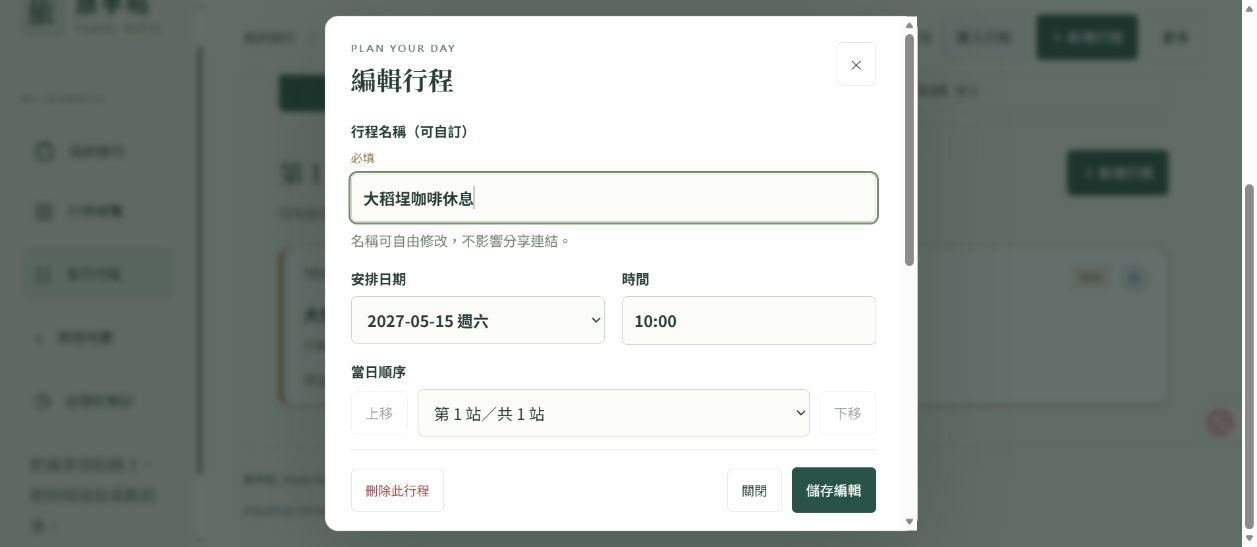
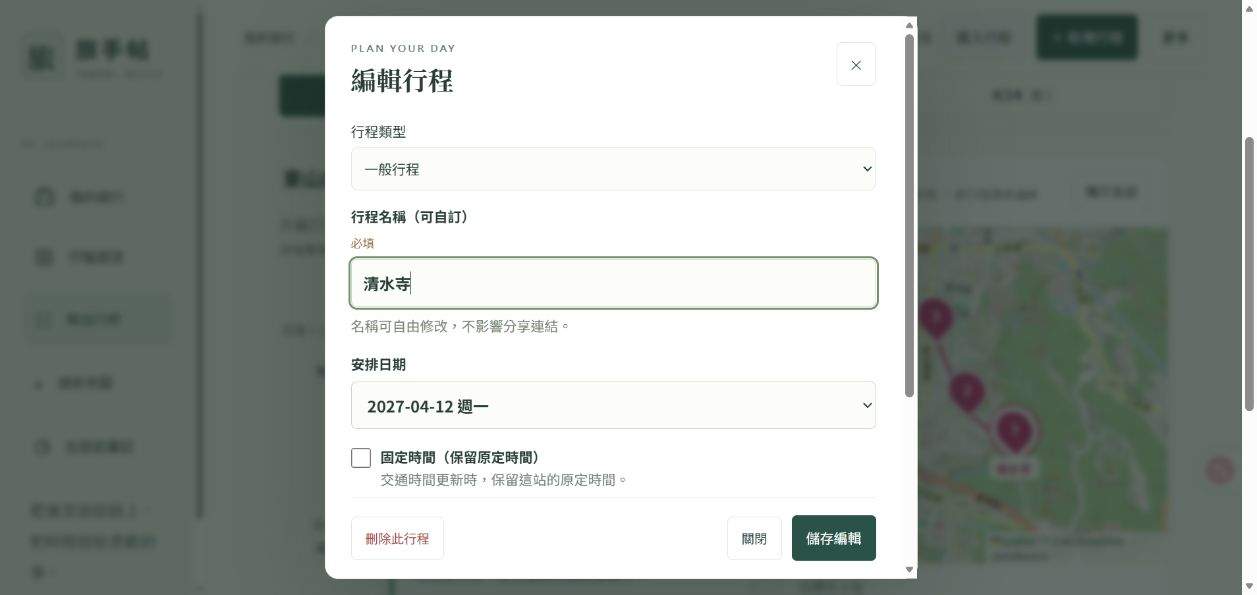
Simplify stop editor and allow moving itinerary cards between dates

diff --git a/public/reorder.js b/public/reorder.js
@@ -1,8 +1,40 @@
+import {clearStaleTravel,pushSchedule} from './transport.js';
+
 // Reorder by stable identity; titles and remote renames never determine identity.
 export function moveStop(stops,id,to){
  const from=stops.findIndex(s=>s.id===id);
  if(from<0||!Number.isInteger(to)||to<0||to>=stops.length)throw Error('找不到要移動的行程。');
  const result=stops.slice();result.splice(to,0,result.splice(from,1)[0]);return result;
+}
+
+// A date move is one immutable edit, so a concurrent rename keeps the same identity.
+export function moveStopBetweenDays(days,id,toDay,to){
+ const fromDay=days.findIndex(day=>day.stops.some(stop=>stop.id===id));
+ if(fromDay<0||!Number.isInteger(toDay)||toDay<0||toDay>=days.length)throw Error('找不到要移動的行程或日期。');
+ const from=days[fromDay].stops.findIndex(stop=>stop.id===id),stop=days[fromDay].stops[from];
+ const max=days[toDay].stops.length-(fromDay===toDay?1:0);
+ if(!Number.isInteger(to)||to<0||to>max)throw Error('請選擇有效的當日位置。');
+ if(fromDay!==toDay&&stop.kind==='flight')throw Error('機票日期由實際出發時間決定，請在機票內容修改出發日期。');
+ if(fromDay!==toDay&&days[toDay].stops.length>=100)throw Error('每天最多可安排 100 個項目。');
+ if(fromDay===toDay&&from===to)return {days:structuredClone(days),fromDay,from,day:toDay,index:to,changed:0,reason:'',cleared:0};
+ const next=structuredClone(days),before=next.flatMap(day=>day.stops).filter(item=>item.travelMinutes!==undefined).length;
+ const moved=next[fromDay].stops.splice(from,1)[0];next[toDay].stops.splice(to,0,moved);
+ if(fromDay!==toDay){delete moved.travelMinutes;delete moved.travelSignature;}
+ clearStaleTravel(next);
+ const positions=fromDay===toDay?[[toDay,Math.max(1,Math.min(from,to))]]:[[fromDay,Math.max(1,from)],[toDay,Math.max(1,to)]];
+ const notes=new Set();let changed=0;
+ for(const [day,start] of positions){if(start>=next[day].stops.length)continue;const result=pushSchedule(next[day].stops,start,{exact:true});changed+=result.changed;if(result.reason)notes.add(result.reason);}
+ return {days:next,fromDay,from,day:toDay,index:to,changed,reason:[...notes].join(' '),cleared:before-next.flatMap(day=>day.stops).filter(item=>item.travelMinutes!==undefined).length};
+}
+
+// Hit only the date column under the pointer; dropping in a gap cancels the edit.
+export function overviewDropTarget(columns,point,id){
+ const column=columns.find(box=>point.x>=box.left&&point.x<=box.left+box.width&&point.y>=box.top&&point.y<=box.top+box.height);
+ if(!column)return null;
+ const items=column.items.filter(item=>item.id!==id);
+ const index=items.filter(item=>point.y>item.top+item.height/2).length;
+ const top=items.length?(index===items.length?items.at(-1).top+items.at(-1).height+4:items[index].top-4):column.emptyTop;
+ return {day:column.day,index,left:column.left+8,width:Math.max(0,column.width-16),top};
 }
 
 // Touch scrolling wins until a stationary long press; mouse/pen use a movement threshold.
@@ -151,6 +183,85 @@ export function initReorder(container,{canStart,onStart,onFinish,onMove}){
   const to=event.key==='Home'?0:event.key==='End'?items.length-1:from+(event.key==='ArrowUp'?-1:1);
   if(to<0||to>=items.length||to===from)return;settling=true;const scope=onStart();
   try{await onMove(card.dataset.stopId,to,scope);}finally{settling=false;onFinish();}
+ });
+ return {cancel:gesture.cancel};
+}
+
+// Overview date columns share the same touch intent and floating-card feedback.
+export function initOverviewReorder(container,{canStart,onStart,onFinish,onMove}){
+ let drag=null,frame=0,settling=false,suppressClickUntil=0;
+ const reduced=()=>window.matchMedia('(prefers-reduced-motion: reduce)').matches;
+ const cards=()=>[...container.querySelectorAll('[data-overview-stop-id]')];
+ const columns=()=>[...container.querySelectorAll('[data-overview-day]')];
+ const eligible=target=>{
+  if(settling||!canStart()||!(target instanceof Element)||target.closest('input,select,textarea,a,form,[contenteditable="true"]'))return null;
+  const card=target.closest('[data-overview-stop-id]');return card&&container.contains(card)&&!card.disabled?card:null;
+ };
+ function updateTarget(){
+  if(!drag)return;
+  const boxes=columns().map(column=>{const box=column.getBoundingClientRect();return {day:Number(column.dataset.overviewDay),...{left:box.left,top:box.top,width:box.width,height:box.height},emptyTop:column.querySelector('.card-stops').getBoundingClientRect().top+8,
+   items:[...column.querySelectorAll('[data-overview-stop-id]')].map(card=>{const rect=card.getBoundingClientRect();return {id:card.dataset.overviewStopId,top:rect.top,height:rect.height};})};});
+  const surface=container.getBoundingClientRect(),point=drag.point;
+  drag.target=point.x>=Math.max(0,surface.left)&&point.x<=Math.min(window.innerWidth,surface.right)&&point.y>=surface.top&&point.y<=surface.bottom?overviewDropTarget(boxes,point,drag.id):null;
+  columns().forEach(column=>column.classList.toggle('overview-drop-target',!!drag.target&&Number(column.dataset.overviewDay)===drag.target.day));
+  drag.marker.hidden=!drag.target;
+  if(drag.target){const left=Math.max(drag.target.left,surface.left,0),right=Math.min(drag.target.left+drag.target.width,surface.right,window.innerWidth);Object.assign(drag.marker.style,{left:`${left}px`,top:`${drag.target.top}px`,width:`${Math.max(0,right-left)}px`});}
+ }
+ function renderFrame(){
+  if(!drag||settling)return;const d=drag;
+  if(d.moved){
+   const box=container.getBoundingClientRect(),edge=48;
+   if(d.point.y>=box.top&&d.point.y<=box.bottom){const x=d.point.x<box.left+edge?-Math.min(14,(box.left+edge-d.point.x)/4):d.point.x>Math.min(box.right,window.innerWidth)-edge?Math.min(14,(d.point.x-Math.min(box.right,window.innerWidth)+edge)/4):0;if(x)container.scrollLeft+=x;}
+   const y=d.point.y<100?-Math.min(16,(100-d.point.y)/5):d.point.y>window.innerHeight-70?Math.min(16,(d.point.y-window.innerHeight+70)/5):0;if(y)window.scrollBy(0,y);
+  }
+  const x=d.point.x-d.start.x,y=d.point.y-d.start.y;
+  d.visualX+=(x-d.visualX)*(reduced()?1:.45);d.visualY+=(y-d.visualY)*(reduced()?1:.45);
+  d.ghost.style.transform=`translate3d(${d.visualX}px,${d.visualY}px,0) scale(${reduced()?1:1.025})`;
+  updateTarget();frame=requestAnimationFrame(renderFrame);
+ }
+ function activate(point,card){
+  if(!card.isConnected||settling||!canStart())return false;
+  const rect=card.getBoundingClientRect(),ghost=card.cloneNode(true),marker=document.createElement('div');
+  for(const attr of ['id','data-overview-stop-id','data-details','data-owner','data-day','data-stop'])ghost.removeAttribute(attr);
+  ghost.querySelectorAll('[id]').forEach(el=>el.removeAttribute('id'));ghost.classList.add('reorder-ghost');ghost.setAttribute('aria-hidden','true');ghost.inert=true;
+  Object.assign(ghost.style,{left:`${rect.left}px`,top:`${rect.top}px`,width:`${rect.width}px`,height:`${rect.height}px`});
+  marker.className='overview-drop-marker';marker.setAttribute('aria-hidden','true');
+  drag={id:card.dataset.overviewStopId,card,rect,ghost,marker,start:{...point},point:{...point},visualX:0,visualY:0,moved:false,target:null,fromDay:Number(card.dataset.owner),from:Number(card.dataset.stop),scope:onStart()};
+  card.classList.add('reorder-source');container.classList.add('is-overview-reordering');document.body.classList.add('reorder-active');document.body.append(ghost,marker);
+  if(point.type!=='touch')card.setPointerCapture(point.id);updateTarget();frame=requestAnimationFrame(renderFrame);return true;
+ }
+ async function finish(save){
+  if(!drag||settling)return;settling=true;cancelAnimationFrame(frame);const d=drag;suppressClickUntil=performance.now()+400;
+  if(d.point.type!=='touch'&&d.card.hasPointerCapture(d.point.id))d.card.releasePointerCapture(d.point.id);
+  try{
+   if(save&&d.target&&(d.target.day!==d.fromDay||d.target.index!==d.from))await onMove(d.id,d.target.day,d.target.index,d.scope);
+   d.marker.remove();columns().forEach(column=>column.classList.remove('overview-drop-target'));
+   const target=cards().find(card=>card.dataset.overviewStopId===d.id);
+   if(target){target.classList.add('reorder-source');const box=target.getBoundingClientRect();const animation=d.ghost.animate([{transform:d.ghost.style.transform},{transform:`translate3d(${box.left-d.rect.left}px,${box.top-d.rect.top}px,0) scale(1)`}],{duration:reduced()?0:200,easing:'cubic-bezier(.2,0,0,1)',fill:'forwards'});await animation.finished.catch(()=>{});target.classList.remove('reorder-source');}
+  }finally{d.ghost.remove();d.marker.remove();d.card.classList.remove('reorder-source');columns().forEach(column=>column.classList.remove('overview-drop-target'));container.classList.remove('is-overview-reordering');document.body.classList.remove('reorder-active');drag=null;settling=false;onFinish();}
+ }
+ const gesture=createReorderGesture({onActivate:activate,onDrag:point=>{drag.point={...point};drag.moved=true;updateTarget();},onDrop:point=>{drag.point={...point};updateTarget();void finish(true);},onCancel:()=>void finish(false)});
+ const pointer=event=>({id:event.pointerId,type:event.pointerType,x:event.clientX,y:event.clientY});
+ const touch=item=>({id:item.identifier,type:'touch',x:item.clientX,y:item.clientY});
+ container.addEventListener('pointerdown',event=>{if(event.pointerType==='touch'||event.button!==0||!event.isPrimary)return;const card=eligible(event.target);if(card)gesture.begin(pointer(event),card);});
+ window.addEventListener('pointermove',event=>{if(event.pointerType!=='touch'&&gesture.move(pointer(event)))event.preventDefault();});
+ window.addEventListener('pointerup',event=>{if(event.pointerType!=='touch')gesture.end(pointer(event));});
+ window.addEventListener('pointercancel',event=>{if(event.pointerType!=='touch')gesture.cancel(pointer(event));});
+ container.addEventListener('lostpointercapture',event=>{if(!settling&&event.pointerType!=='touch')gesture.cancel(pointer(event));});
+ container.addEventListener('touchstart',event=>{if(event.touches.length!==1){gesture.cancel();return;}const card=eligible(event.target);if(card)gesture.begin(touch(event.touches[0]),card);},{passive:true});
+ window.addEventListener('touchmove',event=>{if(event.touches.length!==1){gesture.cancel();return;}if(gesture.move(touch(event.touches[0]))&&event.cancelable)event.preventDefault();},{passive:false});
+ window.addEventListener('touchend',event=>{for(const item of event.changedTouches)if(gesture.end(touch(item))&&event.cancelable)event.preventDefault();},{passive:false});
+ window.addEventListener('touchcancel',()=>gesture.cancel());
+ container.addEventListener('contextmenu',event=>{if(gesture.pending)event.preventDefault();});
+ container.addEventListener('click',event=>{if(performance.now()<suppressClickUntil){event.preventDefault();event.stopImmediatePropagation();suppressClickUntil=0;}},true);
+ window.addEventListener('blur',()=>gesture.cancel());window.addEventListener('resize',()=>gesture.cancel());document.addEventListener('visibilitychange',()=>{if(document.hidden)gesture.cancel();});
+ window.addEventListener('keydown',event=>{if(event.key==='Escape'&&gesture.pending){event.preventDefault();gesture.cancel();}});
+ container.addEventListener('keydown',async event=>{
+  const card=event.target.closest('[data-overview-stop-id]');if(!card||card!==event.target||!event.altKey||!['ArrowLeft','ArrowRight','ArrowUp','ArrowDown'].includes(event.key)||settling||gesture.pending||!canStart())return;
+  event.preventDefault();const day=Number(card.dataset.owner),index=Number(card.dataset.stop),horizontal=['ArrowLeft','ArrowRight'].includes(event.key),toDay=day+(horizontal?(event.key==='ArrowLeft'?-1:1):0);
+  const column=columns().find(item=>Number(item.dataset.overviewDay)===toDay);if(!column)return;
+  const count=column.querySelectorAll('[data-overview-stop-id]').length,to=horizontal?Math.min(index,count):index+(event.key==='ArrowUp'?-1:1);if(to<0||(!horizontal&&to>=count))return;
+  settling=true;const scope=onStart();try{await onMove(card.dataset.overviewStopId,toDay,to,scope);}finally{settling=false;onFinish();}
  });
  return {cancel:gesture.cancel};
 }

diff --git a/public/index.html b/public/index.html
@@ -15,10 +15,10 @@
 
 <dialog id="editor" aria-labelledby="editor-title"><form id="editor-form"><div class="dialog-heading"><div><span class="eyebrow">PLAN YOUR DAY</span><h2 id="editor-title">新增行程</h2></div><div class="editor-actions"><button type="button" id="editor-start-edit" class="primary" hidden>編輯</button><button type="button" id="editor-close" class="plain" data-close aria-label="關閉編輯視窗">✕</button></div></div>
 <label class="editor-kind-label" for="field-kind">行程類型<select id="field-kind" name="kind"><option value="place">一般行程</option><option value="flight">✈ 機票／航班</option></select></label><section id="editor-summary" class="editor-summary"></section><div class="editor-links"><button type="button" id="editor-map" class="secondary" data-view-map>查看地圖</button><button type="button" id="editor-transport" class="secondary" data-transport>查看交通時間</button></div><div class="form-grid"><div id="editor-flight-fields" class="wide" hidden></div><label class="wide">行程名稱（可自訂） <span class="required">必填</span><input id="field-name" name="name" required maxlength="120" placeholder="例如：午餐、下午咖啡、飯店 Check-in"><small>名稱可自由修改，不影響分享連結。</small></label>
-<label>安排日期<select id="field-day" name="day"></select></label><label>時間<input id="field-time" name="time" maxlength="40" placeholder="例如 14:30 或下午"></label>
-<div class="wide editor-order"><label for="field-order">當日順序</label><div class="editor-order-controls"><button type="button" id="editor-up" class="plain" data-write>上移</button><select id="field-order" name="order" aria-label="當日順序"></select><button type="button" id="editor-down" class="plain" data-write>下移</button></div></div><div class="duration-field"><span>停留時間</span><div id="field-duration"></div></div><div class="tag-field"><label for="field-tag">行程標籤</label><select id="field-tag" name="tag"></select><div id="tag-preview" class="tag-preview category-other"><span class="tag">其他</span><small>外框顏色預覽</small></div></div>
+<label class="wide editor-day-field">安排日期<select id="field-day" name="day"></select></label><div class="wide editor-retained-fields" hidden aria-hidden="true"><label>時間<input id="field-time" name="time" maxlength="40" placeholder="例如 14:30 或下午"></label>
+<div class="wide editor-order"><label for="field-order">當日順序</label><div class="editor-order-controls"><button type="button" id="editor-up" class="plain" data-write>上移</button><select id="field-order" name="order" aria-label="當日順序"></select><button type="button" id="editor-down" class="plain" data-write>下移</button></div></div><div class="duration-field"><span>停留時間</span><div id="field-duration"></div></div><div class="tag-field"><label for="field-tag">行程標籤</label><select id="field-tag" name="tag"></select><div id="tag-preview" class="tag-preview category-other"><span class="tag">其他</span><small>外框顏色預覽</small></div></div></div>
 
-<label class="fixed-time-field"><input id="field-fixed" name="fixed" type="checkbox"><span>固定時間（保留原定時間）<small>交通時間更新時，保留這站的原定時間。</small></span></label><label>前往此站的交通方式<select id="field-mode" name="mode"><option value="walking">步行</option><option value="transit">大眾運輸</option><option value="driving">開車／計程車</option><option value="bicycling">自行車</option></select></label>
+<label class="wide fixed-time-field"><input id="field-fixed" name="fixed" type="checkbox"><span>固定時間（保留原定時間）<small>交通時間更新時，保留這站的原定時間。</small></span></label><label class="editor-retained-fields" hidden aria-hidden="true">前往此站的交通方式<select id="field-mode" name="mode"><option value="walking">步行</option><option value="transit">大眾運輸</option><option value="driving">開車／計程車</option><option value="bicycling">自行車</option></select></label>
 <details id="editor-location" class="wide editor-location"><summary>地點與 Google Maps 分享連結</summary><section class="wide maps-import" aria-label="從 Google Maps 加入地點"><label for="field-q">要去的地點／地址</label><div class="maps-search-row"><input id="field-q" name="q" maxlength="300" placeholder="例如：店名、城市，或完整地址" aria-describedby="destination-help"><button type="button" class="secondary" id="search-maps">到 Google Maps 查詢 ↗</button></div><p id="destination-help">填寫實際要去的地點；地圖與交通路線都使用這裡的店名或地址。</p><label class="map-coordinate-field" for="field-coordinates">地圖定位（緯度, 經度）<input id="field-coordinates" name="coordinates" maxlength="70" inputmode="text" placeholder="例如 35.0030, 135.7781"><small>可貼上 Google Maps 完整地點網址帶入座標，或在 Google Maps 長按地點複製座標。只填店名或短連結時不會猜測位置。</small></label><label for="field-mapUrl">貼上 Google Maps 分享連結</label><textarea id="field-mapUrl" name="mapUrl" rows="2" maxlength="5000" placeholder="https://maps.app.goo.gl/…" aria-describedby="share-help maps-share-status"></textarea><p id="share-help">在 Google Maps 確認地點後，按「分享 → 複製連結」，再回到這裡貼上。</p><p id="maps-share-status" role="status"></p><a id="share-preview" class="stop-link" target="_blank" rel="noopener noreferrer" hidden>開啟分享地點確認 ↗</a></section></details><label class="wide">備註<textarea id="field-desc" name="desc" rows="3" maxlength="2000" placeholder="餐廳預約、行李寄放、想吃的餐點…"></textarea></label></div>
 <p id="form-error" class="form-error" role="alert"></p><div class="dialog-footer editor-footer"><button type="button" id="editor-delete" class="plain danger" data-write hidden>刪除此行程</button><button type="button" class="plain" data-close>關閉</button><button type="submit" class="primary" id="save-stop">儲存行程</button></div></form></dialog>
 <dialog id="import-dialog" aria-labelledby="import-title"><form id="import-form"><div class="dialog-heading"><div><span class="eyebrow">ADD TO YOUR JOURNEY</span><h2 id="import-title">匯入行程</h2></div><button type="button" class="plain" data-import-close aria-label="關閉匯入行程">✕</button></div><div class="import-types" aria-label="匯入來源"><button type="button" class="secondary" data-import-type="maps" aria-pressed="true">Google Maps 分享</button><button type="button" class="secondary" data-import-type="gpt" aria-pressed="false">匯入 GPT 行程</button></div><p id="import-help" class="import-help">貼上 Google Maps 分享連結，每個地點分開一行；可在連結前加上行程名稱。</p><details id="gpt-prompt-panel" class="gpt-prompt-panel" hidden open><summary>1. 產生 AI 行程提示詞</summary><p>可修改「我的需求」，再複製給 ChatGPT 或其他 AI。</p><label class="import-text-label">提示詞（可修改需求）<textarea id="gpt-prompt" rows="8" maxlength="120000" spellcheck="false"></textarea></label><div class="gpt-prompt-actions"><button type="button" id="gpt-copy" class="primary">複製提示詞</button><a class="secondary" href="https://chatgpt.com/" target="_blank" rel="noopener noreferrer">開啟 ChatGPT ↗</a></div><p id="gpt-copy-status" role="status" aria-live="polite"></p></details><label class="import-text-label"><span id="import-text-name">Google Maps 分享內容</span><textarea id="import-text" rows="5" maxlength="80000" placeholder="咖啡時間 https://maps.app.goo.gl/…&#10;景點名稱 https://www.google.com/maps/place/…"></textarea></label><div class="import-defaults" id="import-defaults"><label>日期<select id="import-day"></select></label><label>時間<input type="time" id="import-time" value="09:00"></label><button id="import-apply" type="button" class="plain">套用到全部</button></div><button id="import-preview" type="button" class="secondary import-preview">預覽匯入行程</button><p id="import-count" role="status"></p><div id="import-rows"></div><p id="import-error" class="form-error" role="alert"></p><div class="dialog-footer"><button type="button" class="plain" data-import-close>取消</button><button type="submit" id="import-save" class="primary" hidden>匯入並儲存</button></div></form></dialog>

diff --git a/public/app.js b/public/app.js
@@ -19,7 +19,7 @@ import {createMapFrame,placeEmbedUrl} from './map-frame.js';
 import {durationParts,durationMinutes,formatDuration} from './duration.js';
 import {tagCategory,tagOptions} from './tags.js';
 import {renderStopAvatar,stopAvatarLabel} from './stop-avatar.js';
-import {initReorder,moveStop} from './reorder.js';
+import {initReorder,initOverviewReorder,moveStop,moveStopBetweenDays} from './reorder.js';
 import {initImport,insertImported} from './import.js';
 const resolvedPlaces=new Map(),placeRequests=new Map(),placeErrors=new Map();
 let transportLoading=false;
@@ -150,6 +150,8 @@ const autoSync=createAutoSync({
 });
 const importer=initImport({canWrite:()=>canChange()&&!transportDirty&&!stayDraft,getScope:scopeSnapshot,onSave:importRows,onChange:persistDraft,onClose:()=>void autoSync.tick()});
 initReorder($('timeline'),{canStart:()=>canChange()&&!transportDirty&&!stayDraft&&!timelineEditorId&&!transportEditorId,onStart:()=>{dragging=true;return {...scopeSnapshot(),day:activeDay};},onFinish:()=>{dragging=false;void autoSync.tick();},onMove:reorderStop});
+function canSortOverview(){return canChange()&&!dragging&&!editorDirty&&!$('editor').open&&!$('import-dialog').open&&!$('transport-dialog').open&&!importer.dirty&&!transportDirty&&!stayDraft&&!timelineEditorId&&!transportEditorId&&!dayNameDraft&&!document.activeElement?.matches('[name="dayName"]');}
+initOverviewReorder($('board'),{canStart:canSortOverview,onStart:()=>{dragging=true;return scopeSnapshot();},onFinish:()=>{dragging=false;void autoSync.tick();},onMove:moveOverviewStop});
 const placeFrame=createMapFrame({getFrame:()=>$('map'),status:$('place-map-status'),isActive:()=>currentPage==='map'});
 const transportFrame=createMapFrame({getFrame:()=>$('transport-map'),status:$('transport-placeholder'),isActive:()=>$('transport-dialog').open});
 const esc=value=>String(value??'').replace(/[&<>"']/g,c=>({'&':'&amp;','<':'&lt;','>':'&gt;','"':'&quot;',"'":'&#39;'}[c]));
@@ -293,7 +295,7 @@ async function resolveConflicts(choices){
 }
 
 function renderBoard(){
- $('board').innerHTML=days.map((d,i)=>`<article class="day-card day-summary" style="--day:${esc(d.color)};--tint:${esc(d.tint)}">${renderDayName(d,i,{canEdit:access.canEdit}).replaceAll("day-name-"+i,"overview-day-name-"+i)}<button class="day-choice" data-open-day="${i}" aria-label="查看第 ${i+1} 天 ${esc(d.date)} 行程"><span class="day-number">第 ${i+1} 天</span><span class="card-date">${esc(d.date)}</span></button><div class="day-items"><div class="card-stops">${d.stops.map((s,j)=>`<button class="mini-stop ${s.live===true?'has-stop-avatar ':''}category-${tagCategory(s.tag)}" data-details="${j}" data-owner="${i}" data-day="${i}" data-stop="${j}" aria-pressed="${activeDay===i&&activeStop===j}"><time>${esc(s.time)}</time><strong>${esc(s.name)}</strong><span class="tag">${esc(s.tag||'其他')}</span>${renderStopAvatar(s)}</button>`).join('')||'<p class="empty">尚未安排行程</p>'}</div><button class="add-day" data-add="${i}" data-write>＋ 新增行程</button></div></article>`).join('');lock();
+ $('board').innerHTML=days.map((d,i)=>`<article class="day-card day-summary" data-overview-day="${i}" style="--day:${esc(d.color)};--tint:${esc(d.tint)}">${renderDayName(d,i,{canEdit:access.canEdit}).replaceAll("day-name-"+i,"overview-day-name-"+i)}<button class="day-choice" data-open-day="${i}" aria-label="查看第 ${i+1} 天 ${esc(d.date)} 行程"><span class="day-number">第 ${i+1} 天</span><span class="card-date">${esc(d.date)}</span></button><div class="day-items"><div class="card-stops">${d.stops.map((s,j)=>`<button class="mini-stop ${s.live===true?'has-stop-avatar ':''}category-${tagCategory(s.tag)}" data-overview-stop-id="${esc(s.id)}" data-details="${j}" data-owner="${i}" data-day="${i}" data-stop="${j}" ${access.canEdit?'title="長按或拖曳調整日期與順序；Alt＋方向鍵也可調整"':''} aria-pressed="${activeDay===i&&activeStop===j}"><time>${esc(s.time)}</time><strong>${esc(s.name)}</strong><span class="tag">${esc(s.tag||'其他')}</span>${renderStopAvatar(s)}</button>`).join('')||'<p class="empty">尚未安排行程</p>'}</div><button class="add-day" data-add="${i}" data-write>＋ 新增行程</button></div></article>`).join('');lock();
 }
 function renderTransportRow(stops,index){
  const draft=transportDirty&&transportDraft?.day===activeDay&&transportDraft.id===stops[index]?.id?transportDraft:null;
@@ -558,6 +560,13 @@ async function reorderStop(id,to,scope={...scopeSnapshot(),day:activeDay}){
  }
  return saved;
 }
+async function moveOverviewStop(id,day,to,scope=scopeSnapshot()){
+ if(!canChange()||editorDirty||transportDirty||stayDraft||dayNameDraft||importer.dirty)return false;
+ let moved;try{moved=moveStopBetweenDays(scope.days,id,day,to);}catch(error){notice(error.message);return false;}
+ const message=(moved.fromDay===day?'已調整行程順序':'已移至 '+(moved.days[day].isoDate||moved.days[day].date))+(moved.cleared?'；路線改變的交通時間已清除，請重新確認。':'')+(moved.changed?' 已重新計算 '+moved.changed+' 個行程時間。':'')+(moved.reason?' '+moved.reason:'');
+ const saved=await commit(moved.days,message,day,to,false,false,scope);
+ if(saved){const card=[...$('board').querySelectorAll('[data-overview-stop-id]')].find(item=>item.dataset.overviewStopId===id);card?.scrollIntoView({block:'nearest',inline:'nearest',behavior:'instant'});card?.focus({preventScroll:true});}return saved;
+}
 async function move(index,step){const to=index+step;if(to<0||to>=days[activeDay].stops.length)return;await reorderStop(days[activeDay].stops[index].id,to);}
 async function importRows(rows,scope){
  if(!canChange())return;
@@ -638,8 +647,10 @@ $('editor-form').addEventListener('submit',async e=>{
  if(stay!==undefined)stop.duration=stay;stop.tag=stop.tag||'行程';stop.time=stop.time||'待安排';
  if(editing)next[editing.day].stops.splice(editing.index,1);
  const index=Math.max(0,Math.min(Number($('field-order').value),next[day].stops.length));
- next[day].stops.splice(index,0,stop);clearStaleTravel(next);
- const shifted=(stay!==original.duration||stop.time!==original.time)&&index+1<next[day].stops.length?pushSchedule(next[day].stops,index+1,{exact:true}):{changed:0,reason:''};
+ next[day].stops.splice(index,0,stop);if(editing&&editing.day!==day){delete stop.travelMinutes;delete stop.travelSignature;}clearStaleTravel(next);
+ const placementChanged=editing&&(editing.day!==day||editing.index!==index),shifted={changed:0,reason:''};
+ const starts=placementChanged?(editing.day===day?[[day,Math.max(1,Math.min(editing.index,index))]]:[[editing.day,Math.max(1,editing.index)],[day,Math.max(1,index)]]):(stay!==original.duration||stop.time!==original.time?[[day,index+1]]:[]);
+ const reasons=new Set();for(const [affected,start] of starts){if(start>=next[affected].stops.length)continue;const result=pushSchedule(next[affected].stops,start,{exact:true});shifted.changed+=result.changed;if(result.reason)reasons.add(result.reason);}shifted.reason=[...reasons].join(' ');
  await commit(next,(editing?'行程已更新':'已新增行程')+(shifted.changed?'，已重新計算 '+shifted.changed+' 個行程':'')+(shifted.reason?'。'+shifted.reason:''),day,index,false,false,editorScope,stop.id);
 });
 function updateTagPreview(){const tag=$('field-tag').value,preview=$('tag-preview');preview.className='tag-preview category-'+tagCategory(tag);preview.querySelector('.tag').textContent=tag;}

diff --git a/public/planning.css b/public/planning.css
@@ -3,6 +3,15 @@
 @media(max-width:600px){.overview-map{margin-top:22px}.route-map-scope{gap:8px}.route-map-scope label{width:100%}.route-map-scope select{flex:1}.map-page-grid #map-panel{order:-1;position:static}.map-actions{padding-left:0!important;padding-right:0!important}.editor-kind-label select{font-size:16px}.flight-summary-card{font-size:12px}}@media(prefers-reduced-motion:reduce){.route-map-canvas *{scroll-behavior:auto!important}}
 
 /* Times sit on the rail; the bordered card only contains the place or ticket. */
+#editor .editor-retained-fields{display:none!important}
+body:not(.read-only) #board .mini-stop[data-overview-stop-id]{cursor:grab}
+#board.is-overview-reordering .mini-stop{cursor:grabbing}
+#board .overview-drop-target{outline:2px solid var(--green);outline-offset:3px;background:var(--tint,#edf3e9)}
+.mini-stop.reorder-source{opacity:.22}
+.mini-stop.reorder-ghost{position:fixed;z-index:9999;pointer-events:none;display:grid;grid-template-columns:48px minmax(0,1fr);gap:8px;align-items:center;padding:12px;border:1px solid var(--tag-color,var(--line));border-radius:10px;background:#fff;box-shadow:0 14px 32px #203e3730;cursor:grabbing}
+.mini-stop.reorder-ghost strong{overflow-wrap:anywhere}.mini-stop.reorder-ghost .tag{grid-column:2;justify-self:start}
+.overview-drop-marker{position:fixed;z-index:9998;pointer-events:none;height:3px;border-radius:2px;background:var(--green);box-shadow:0 0 0 2px #fff}
+.overview-drop-marker:before{content:'';position:absolute;left:-3px;top:-3px;width:9px;height:9px;border-radius:50%;background:var(--green)}
 .timeline{--timeline-rail:96px;--timeline-gap:16px;position:relative}
 .timeline::before{content:'';position:absolute;left:calc(var(--timeline-rail) + var(--timeline-gap)/2);top:20px;bottom:28px;width:2px;background:#d9e1d8;pointer-events:none}
 .stop[data-reorder-card].timeline-stop{display:grid;grid-template-columns:var(--timeline-rail) minmax(0,1fr);gap:var(--timeline-gap);border:0;border-radius:0;background:transparent;margin:0 0 14px;padding:0;box-shadow:none;min-width:0}

diff --git a/README.md b/README.md
@@ -209,7 +209,7 @@ npm run deploy
 - **每天取名**：點擊總覽或每日行程的每日名稱，直接輸入，例如「東山散步日」。按 Enter 或離開欄位自動儲存，不需另外按儲存；按 Esc 或「取消」放棄草稿。地圖和每日內容使用同一個名稱。
 - **外側時間軸**：卡片外顯示開始、停留與離開時間，點一下時間即可修改。交通平常只顯示交通方式圖示和分鐘數；點開後可輸入 0–1440 分鐘，按「完成」收起。Google Maps 按鈕用來查路線，再自行填入確認過的分鐘數。下一站抵達時間依「本站開始＋停留＋通勤」重新計算；固定預約保留原時間，來不及時提醒，缺少停留或交通時間時停止計算。路線或交通方式改變後須重新確認分鐘數。
 - **編號地圖**：總覽顯示整趟旅行，每日行程也有當日路線圖；旅途地圖可切換當日／整趟旅行。不同日期使用不同顏色，依日期圖例辨識，點編號對應景點。連線表示當天行程順序，並非實際道路或自動導航，跨日期不硬接。地點需有座標，完整 Google Maps 地點網址的目的地座標可帶入，也可手動填「緯度, 經度」；僅有店名或短網址時不會猜測定位。地點更改後需重新定位。
-- **新增機票**：按「＋ 新增行程」，將「行程類型」改成「機票／航班」。填機場、各機場當地的出發／抵達日期、時間與 IANA 時區（例如 `Asia/Taipei`、`Asia/Tokyo`），可另填航空公司、航班號、航廈、訂位代號和備註。選擇對應的安排日期與順序後儲存。每日時間列換算到旅行時區，機票保留兩地原始時間，飛行分鐘數依時差計算；出發時間固定，不會被一般交通順延。每個航段最多 24 小時，轉機請分段新增。
+- **新增機票**：按「＋ 新增行程」，將「行程類型」改成「機票／航班」。填機場、各機場當地的出發／抵達日期、時間與 IANA 時區（例如 `Asia/Taipei`、`Asia/Tokyo`），可另填航空公司、航班號、航廈、訂位代號和備註。選擇對應的安排日期後儲存。每日時間列換算到旅行時區，機票保留兩地原始時間，飛行分鐘數依時差計算；出發時間固定，不會被一般交通順延。每個航段最多 24 小時，轉機請分段新增。
 
 地圖使用本地打包的 Leaflet 1.9.4 與 OpenStreetMap 圖磚，不需要 Google API key；Leaflet 授權見 `public/vendor/leaflet/LICENSE.txt`。圖磚只供目前畫面正常互動使用，保留可見署名及瀏覽器快取，不預抓／離線下載；公開圖磚沒有可用性保證。見 [OpenStreetMap 圖磚政策](https://operations.osmfoundation.org/policies/tiles/)。排列互動參考 [Funliday 官方行程教學](https://www.funliday.com/posts/funliday-app-ios-guidance-search/)，沒有複製其品牌或資料。
 
@@ -232,13 +232,14 @@ npm run deploy
 
 ### 圖解 2：新增／編輯每日行程
 
-![編輯行程：時間、停留時間、順序與地點欄位](docs/screenshots/02-edit-stop.png)
+![精簡編輯行程：名稱、安排日期與固定時間設定](docs/screenshots/02-edit-stop.png)
 
 1. 進入一趟旅行，選擇 **每日行程** 與日期，按 **＋ 新增行程**。
-2. 填寫名稱、時間、停留時間與行程標籤。**當日順序** 可選位置，或用 **上移／下移** 調整。
+2. 編輯框填寫名稱、安排日期、地點與備註；時間、停留時間、順序、標籤與交通方式的重複欄位已先收起，保留既有設定。
 3. 展開 **地點與 Google Maps 分享連結**，填入具體店名／地址，或貼上 Google Maps 的分享連結。
 4. 有已確認的航班、預約或演出，勾選 **固定時間（保留原定時間）**，再按 **儲存行程**。
 5. 修改景點內容時先點開卡片，再按 **編輯**。時間和停留可直接點卡片外的時間軸；兩站之間的交通時間點開後填分鐘並按 **完成**。
+6. 總覽可把行程卡片拖到另一個日期；手機長按後拖動。也可在編輯框的 **安排日期** 選擇新日期。當日順序以拖曳調整；移動後需重新確認改變路段的交通分鐘數。機票的安排日期須與實際出發日期相符。
 
 ### 圖解 3：匯入 GPT 規劃
 
